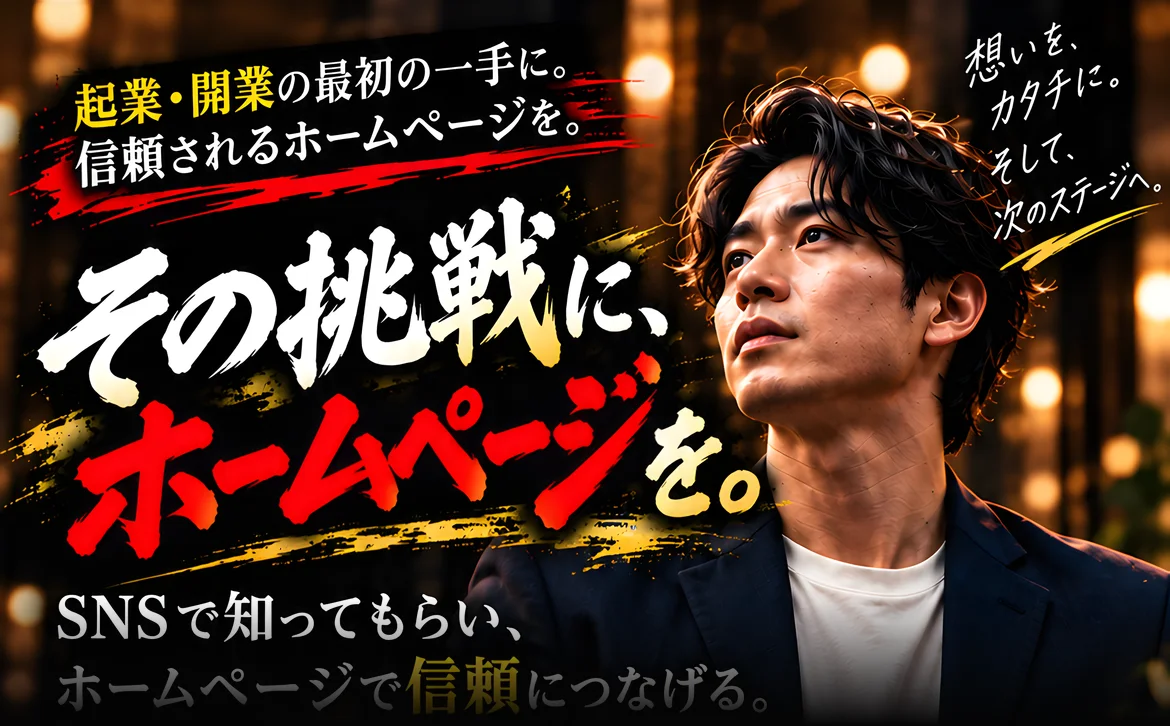
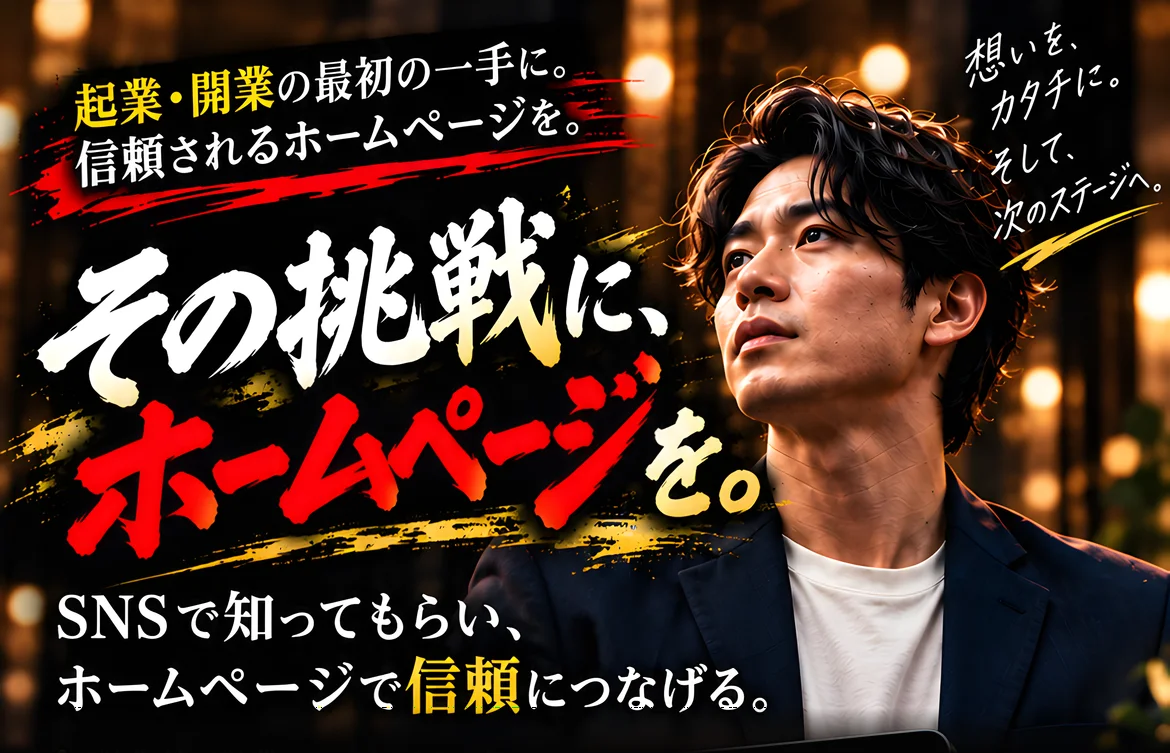
スマホFV：「SNSで知ってもらい〜」の行が価格の丸に重ならないよう調整
見出し画像の切り出しを少し下まで伸ばし、下端の暗くなる範囲を18%→6%に縮めて文字を読めるように。
価格の丸を画像に重ねていた（margin-top:-8px）のをやめて10pxの余白を取り、説明文は1行に収めた。

Claude-Session: https://claude.ai/code/session_01G65TiHfa1BUco43NvNDLJF

diff --git a/index.html b/index.html
@@ -435,7 +435,7 @@ footer a{color:#ddd}
   .fv2-pc{display:none}
   .fv2-sp{display:block}
   .fv2-sp > img{width:100%; height:auto}
-  .fv2-sp-in{padding:0 12px 16px; margin-top:-8px; position:relative}
+  .fv2-sp-in{padding:10px 12px 16px; position:relative}
   .fv2-sp .badges{margin:0 0 10px}
   .fv2-sp .badges b{font-size:26px}
   .fv2-sp .badges b.s{font-size:19px}
@@ -444,7 +444,7 @@ footer a{color:#ddd}
   .fv2-sp .badges b.s{font-size:21px}
   .fv2-sp .badges b.t{font-size:14px; line-height:1.25}
   .fv2-sp .btn-red{font-size:19px; padding:13px 16px}
-  .fv2-note{margin:8px 0 0; text-align:center; font-size:12.5px; font-weight:700}
+  .fv2-note{margin:8px 0 0; text-align:center; font-size:clamp(10.5px,3vw,12.5px); font-weight:700; letter-spacing:-.02em; white-space:nowrap}
   .fv2-sp .fine{margin-top:2px; font-size:11px}
 }
 .ops .plan-tag{display:inline-block; margin:6px 12px 0; font-size:11px; font-weight:900; color:#6b4a00; background:#f3dea0; border-radius:999px; padding:1px 10px}
@@ -492,7 +492,7 @@ footer a{color:#ddd}
     <a class="fv2-cta" href="#contact" aria-label="無料デザイン案をもらう"></a>
   </div>
   <div class="fv2-sp">
-    <img src="img/v3/fv-sp-top.webp" alt="SNSで知ってもらい、ホームページで信頼につなげる。" width="1170" height="726" fetchpriority="high">
+    <img src="img/v3/fv-sp-top.webp" alt="SNSで知ってもらい、ホームページで信頼につなげる。" width="1170" height="753" fetchpriority="high">
     <div class="fv2-sp-in">
       <ul class="badges">
         <li><small>初期費用</small><b class="g">0<i>円</i></b></li>
